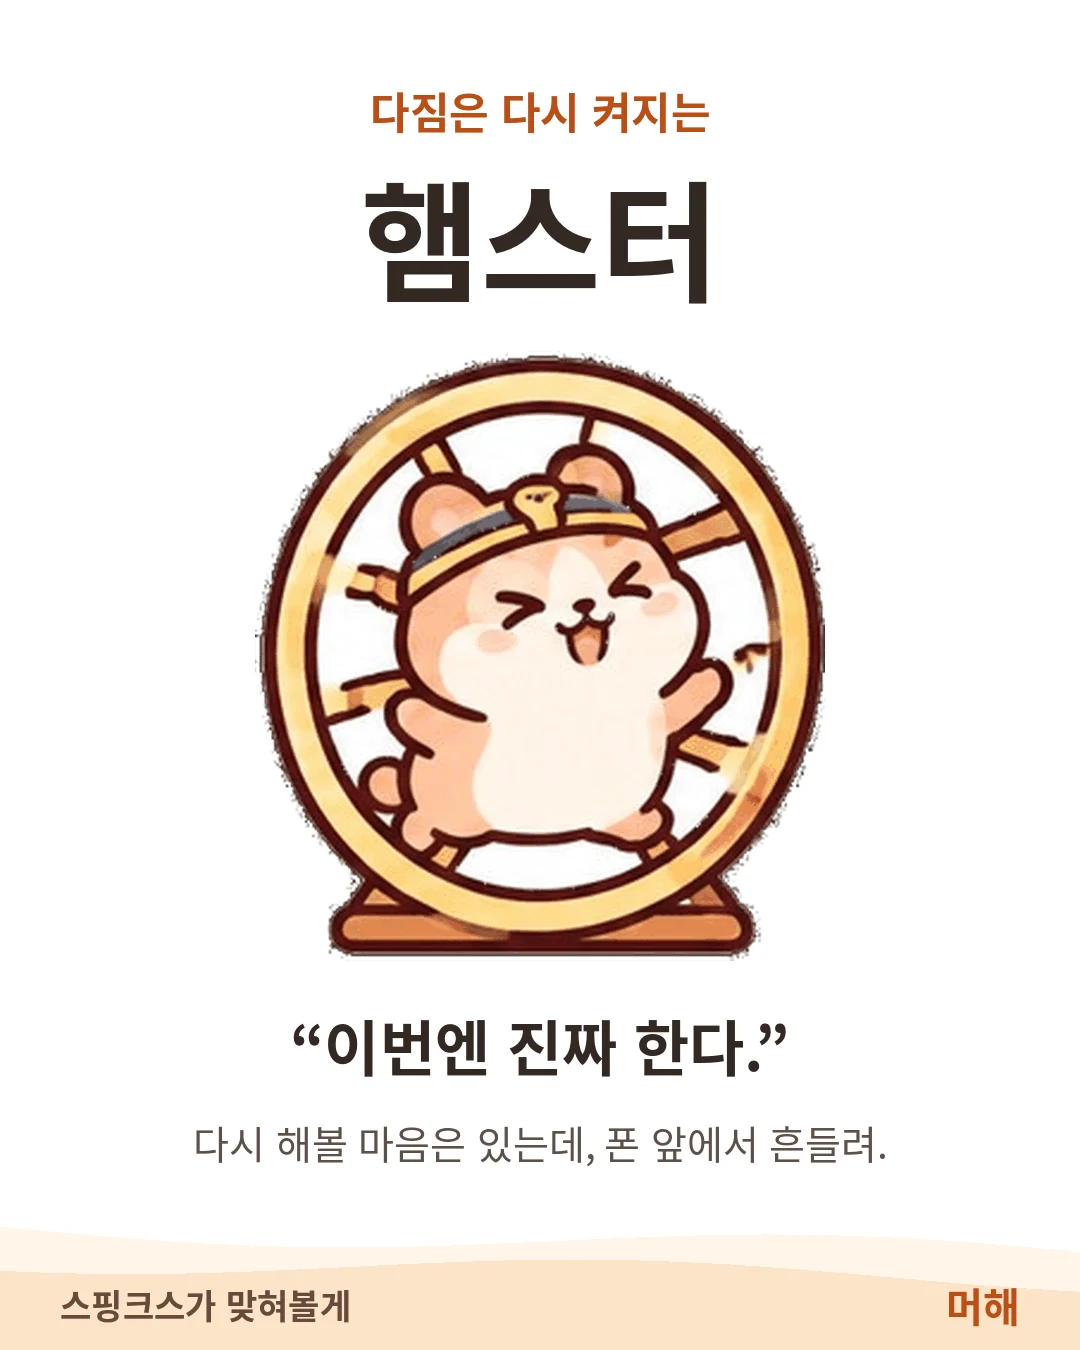
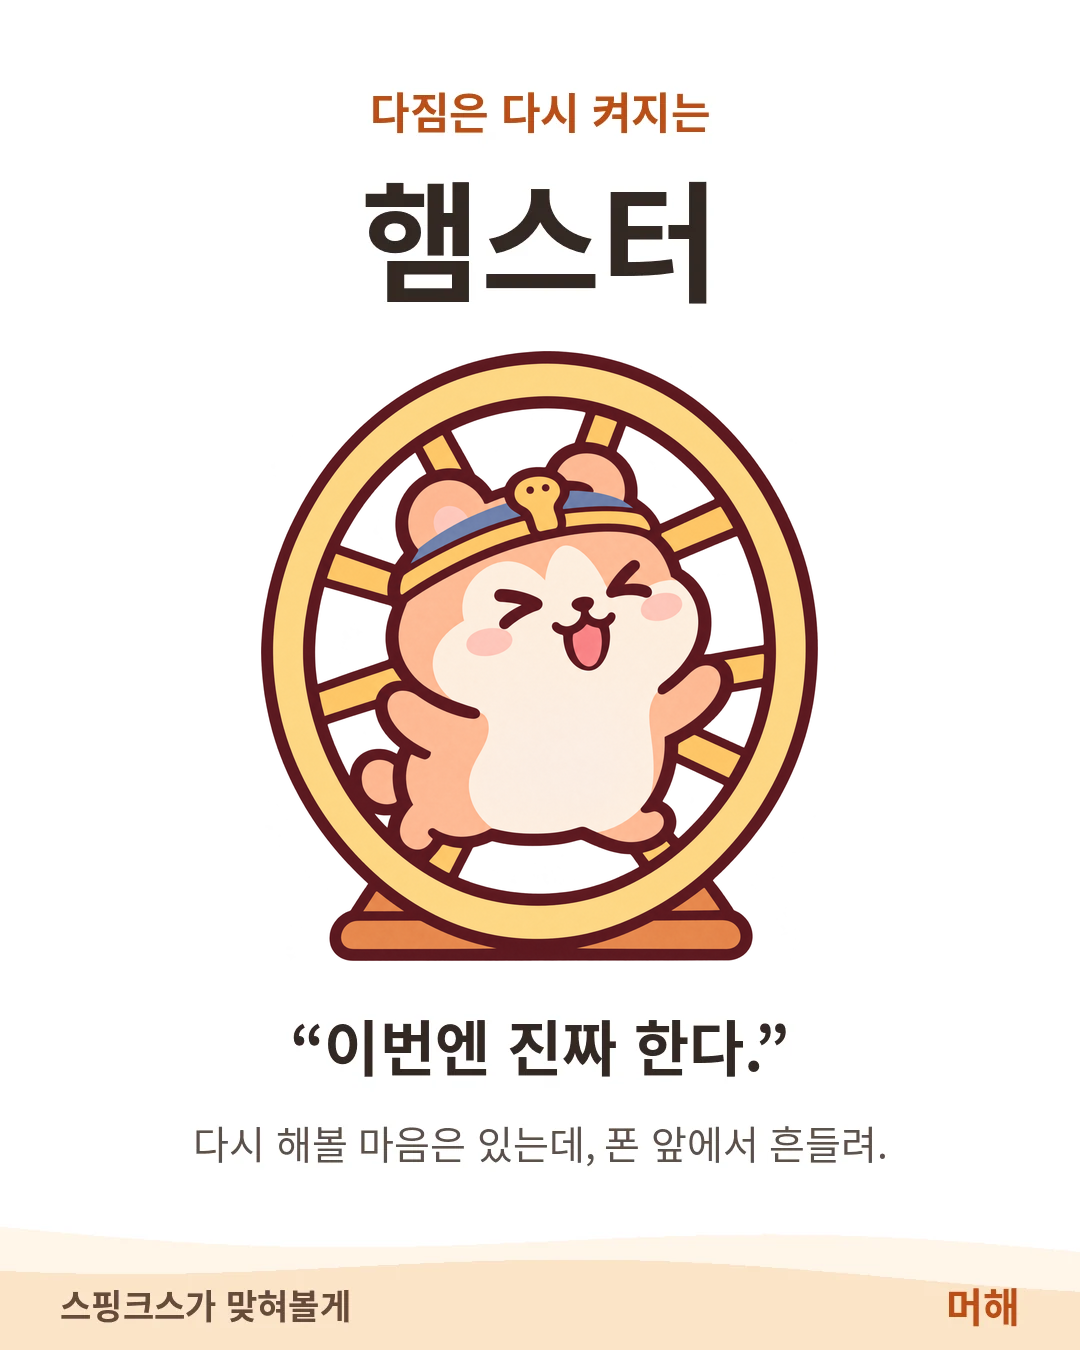
Sphinx test: start screen fits one phone screen, transition into the intro, sharp animals on cards
- Start screen sizes follow viewport height so nothing needs scrolling
- After the last answer the Sphinx pauses, the screen brightens, and the MEOHAE intro rises in
- Result cards rebuilt with the original sharp animal art in the same position (text unchanged)

Claude-Session: https://claude.ai/code/session_01AmGVMRGbXrM8NVEtRhVHKg

Changed region(s): [[0.2139, 0.2489, 0.7639, 0.7156]]

diff --git a/sphinx/index.html b/sphinx/index.html
@@ -183,6 +183,34 @@ h1 .spark.r{right:-38px;top:50%;margin-top:-13px;transform:scaleX(-1)}
 .rend{margin-top:30px;text-align:center}
 .rend .inote{margin:0 0 8px}
 
+/* 시작 화면은 스크롤 없이 한 화면에: 화면 높이에 맞춰 줄어든다 */
+.wrap.start{padding-top:clamp(10px,2vh,18px);padding-bottom:calc(min(100vw,430px)*.19)}
+#s-start .pill{margin-top:clamp(6px,1.8vh,22px)}
+#s-start h1{font-size:clamp(31px,5.4vh,44px);margin-top:clamp(3px,1vh,10px)}
+#s-start .heroS{width:min(62%,23vh);margin-top:clamp(5px,1.6vh,16px)}
+#s-start .lead{margin-top:clamp(5px,1.2vh,12px);font-size:clamp(14.5px,2vh,16px)}
+#s-start .shelf{margin-top:clamp(7px,1.8vh,20px)}
+#s-start .shelf img{width:clamp(36px,6vh,50px)}
+#s-start .stack{margin-top:clamp(9px,2vh,24px)}
+#s-start .stack .btn{min-height:clamp(50px,7vh,58px)}
+#s-start .stack .tiny{margin-top:clamp(6px,1.2vh,12px)!important}
+@supports (height:1svh){
+ .wrap.start{padding-top:clamp(10px,2svh,18px)}
+ #s-start .pill{margin-top:clamp(6px,1.8svh,22px)}
+ #s-start h1{font-size:clamp(31px,5.4svh,44px);margin-top:clamp(3px,1svh,10px)}
+ #s-start .heroS{width:min(62%,23svh);margin-top:clamp(5px,1.6svh,16px)}
+ #s-start .lead{margin-top:clamp(5px,1.2svh,12px);font-size:clamp(14.5px,2svh,16px)}
+ #s-start .shelf{margin-top:clamp(7px,1.8svh,20px)}
+ #s-start .shelf img{width:clamp(36px,6svh,50px)}
+ #s-start .stack{margin-top:clamp(9px,2svh,24px)}
+ #s-start .stack .btn{min-height:clamp(50px,7svh,58px)}
+}
+/* 머해 소개로 넘어갈 때: 아래에서 떠오르며 나타난다 */
+@keyframes introIn{from{opacity:0;transform:translateY(28px)}to{opacity:1;transform:none}}
+#s-intro.on.enter{animation:introIn .5s cubic-bezier(.2,.8,.2,1) both}
+#s-intro.on.enter .intro h3{animation:introIn .5s .12s cubic-bezier(.2,.8,.2,1) both}
+#s-intro.on.enter .ex{animation:introIn .55s .24s cubic-bezier(.2,.8,.2,1) both}
+
 .foot{margin-top:28px;font-size:12.5px;color:var(--sub);text-align:center}
 .foot button{background:none;border:0;text-decoration:underline;text-underline-offset:3px;font-size:13.5px;color:var(--sub);margin-bottom:12px}
 .flash{position:fixed;inset:0;background:#fff;opacity:0;pointer-events:none;z-index:9;transition:opacity .3s}
@@ -203,7 +231,7 @@ h1 .spark.r{right:-38px;top:50%;margin-top:-13px;transform:scaleX(-1)}
 </style>
 </head>
 <body>
-<div class="wrap" id="wrap">
+<div class="wrap start" id="wrap">
   <img class="head" src="img/icons.webp" alt="">
 
   <section class="scr on" id="s-start">
@@ -323,18 +351,18 @@ function decideMid(a){const r2=P2(a,'q1')+P2(a,'q2')+P2(a,'q3')+P2(a,'q4')+P2(a,
 /* 줄 순서: 거북이 → 다람쥐 → 강아지 → 햄스터 → 고양이 */
 const ORDER=['T','S','D','H','C'];
 const R={
- T:{"name": "거북이", "img": "turtle", "card": "img/cards/turtle.png", "nickname": "자기 페이스 지키는", "quote": "“하던 거 마저 하고 볼게.”", "headline": "", "cardLine": "잠깐 흔들려도, 금방 하던 공부로 돌아와.", "summaries": [{"title": "잠깐 흔들려도, 다시 공부로.", "lines": ["재밌는 게 보이면 너도 눈길이 가.", "그래도 대체로 하던 공부로 금방 돌아와."]}, {"title": "“이따 볼게”를 진짜로 해.", "lines": ["조금 아쉬워도 폰을 내려놓는 편이야.", "해야 할 일을 먼저 챙길 줄 알지."]}], "traits": [["내 흐름을 다시 찾는 편", "잠깐 시선이 새도 하던 일을 이어갈 여지가 있어."], ["멈출 때를 비교적 잘 알아", "재미가 남아 있어도 지금 할 일을 챙기는 쪽이야."], ["네 페이스로 꾸준히", "크게 다짐하기보다 다시 앉는 행동이 익숙한 편이야."]]},
- S:{"name": "다람쥐", "img": "squirrel", "card": "img/cards/squirrel.png", "nickname": "돌아올 길은 아는", "quote": "“잠깐만… 아, 하던 거 해야지.”", "headline": "혼자 돌아오는 너에게,\n조금 더 일찍 생각날 계기.", "cardLine": "딴길에 들러도 스스로 돌아올 줄 알아.", "summaries": [{"title": "딴길로 새도, 돌아올 줄 알아.", "lines": ["궁금한 게 생기면 잠깐 들르기도 해.", "그러다 스스로 “공부해야지” 하고 돌아와."]}, {"title": "돌아오는 데 걸리는 시간은 달라.", "lines": ["금방 끌 때도, 조금 더 머물 때도 있어.", "구경거리가 많으면 길어지기도 하지."]}], "traits": [["구경은 해도 돌아올 길은 알아", "호기심이 생겨도 하던 일을 다시 이어가는 편이야."], ["스스로 다시 시작할 힘", "누가 옆에 없어도 돌아오려는 행동이 나오는 쪽이야."], ["왕복 시간은 그때그때", "돌아오는 건 익숙해도, 딴길에 머무는 길이는 달라질 수 있어."]]},
- D:{"name": "강아지", "img": "dog", "card": "img/cards/dog.png", "nickname": "딴길 산책 중인", "quote": "“아 맞아… 나 해야 해…”", "headline": "그 ‘아 맞다’를,\n한 번 더.", "cardLine": "공부가 떠올라도 ‘이것까지만’ 보고 싶어.", "summaries": [{"title": "“아 맞다”는 떠오르는데.", "lines": ["해야 할 공부가 문득 떠올라.", "그래도 보던 걸 바로 끄기는 아쉬워."]}, {"title": "“이것까지만”에 자꾸 붙잡혀.", "lines": ["돌아갈까 하다가 조금만 더 보게 돼.", "그 사이 공부로 돌아갈 순간이 늦어지지."]}], "traits": [["알아차려도, 이것까지만", "시간이 지난 걸 알아도 당장 끄기는 아쉬워."], ["생각과 행동 사이에 틈이 있어", "“해야지”가 바로 “폰 내려놓기”로 이어지지는 않아."], ["복귀 타이밍을 놓치기도", "눈앞의 재미가 남아 있으면 돌아갈 순간이 뒤로 밀려."]]},
- H:{"name": "햄스터", "img": "hamster", "card": "img/cards/hamster.png", "nickname": "다짐은 다시 켜지는", "quote": "“이번엔 진짜 한다.”", "headline": "이번엔 진짜 한다는 마음,\n폰을 켠 순간에도.", "cardLine": "다시 해볼 마음은 있는데, 폰 앞에서 흔들려.", "summaries": [{"title": "다시 해보려는 마음은 있어.", "lines": ["“이번엔 진짜 한다”는 마음이 들어.", "마음속에선 벌써 새 출발이야."]}, {"title": "막상 폰을 켜면 또 흔들려.", "lines": ["눈앞의 재미를 지나치기는 어려워.", "다시 하려던 마음이 잠깐 뒤로 밀려나."]}], "traits": [["다시 해보려는 마음은 있어", "흐름이 끊겨도 이번에는 해보고 싶은 마음이 남아 있어."], ["눈앞의 재미에 쉽게 흔들려", "계획할 때의 마음이 폰 앞에서는 잠깐 작아지기도 해."], ["실행은 그 순간이 어려워", "다짐을 떠올리는 일과 바로 행동하는 일 사이가 멀게 느껴질 수 있어."]]},
- C:{"name": "고양이", "img": "cat", "card": "img/cards/cat.png", "nickname": "지금은 내 마음이 먼저인", "quote": "“됐어, 재밌었잖아.”", "headline": "네가 고른 이미지와 한마디로,\n가볍게 응원받아봐.", "cardLine": "요즘은 공부보다 당장 끌리는 게 먼저야.", "summaries": [{"title": "지금은 공부보다 재밌는 게 먼저야.", "lines": ["당장 끌리는 일에 시간을 쓰고 싶어.", "누가 재촉해도 공부할 마음이 생기진 않지."]}, {"title": "이건 ‘요즘의 너’를 말하는 거야.", "lines": ["항상 의욕이 없다는 뜻은 아니야.", "다시 해보고 싶어지면, 시작도 네 방식대로."]}], "traits": [["지금 끌리는 쪽이 먼저", "해야 한다는 이유만으로 바로 움직이지는 않는 편이야."], ["내 타이밍을 중요하게", "쉬고 싶은 지금의 마음도 네 상태의 일부야."], ["선택은 내가 할래", "다시 시작할 때도 네가 고른 방식이 편할 수 있어."]]}
+ T:{"name": "거북이", "img": "turtle", "card": "img/cards/turtle.png?v=2", "nickname": "자기 페이스 지키는", "quote": "“하던 거 마저 하고 볼게.”", "headline": "", "cardLine": "잠깐 흔들려도, 금방 하던 공부로 돌아와.", "summaries": [{"title": "잠깐 흔들려도, 다시 공부로.", "lines": ["재밌는 게 보이면 너도 눈길이 가.", "그래도 대체로 하던 공부로 금방 돌아와."]}, {"title": "“이따 볼게”를 진짜로 해.", "lines": ["조금 아쉬워도 폰을 내려놓는 편이야.", "해야 할 일을 먼저 챙길 줄 알지."]}], "traits": [["내 흐름을 다시 찾는 편", "잠깐 시선이 새도 하던 일을 이어갈 여지가 있어."], ["멈출 때를 비교적 잘 알아", "재미가 남아 있어도 지금 할 일을 챙기는 쪽이야."], ["네 페이스로 꾸준히", "크게 다짐하기보다 다시 앉는 행동이 익숙한 편이야."]]},
+ S:{"name": "다람쥐", "img": "squirrel", "card": "img/cards/squirrel.png?v=2", "nickname": "돌아올 길은 아는", "quote": "“잠깐만… 아, 하던 거 해야지.”", "headline": "혼자 돌아오는 너에게,\n조금 더 일찍 생각날 계기.", "cardLine": "딴길에 들러도 스스로 돌아올 줄 알아.", "summaries": [{"title": "딴길로 새도, 돌아올 줄 알아.", "lines": ["궁금한 게 생기면 잠깐 들르기도 해.", "그러다 스스로 “공부해야지” 하고 돌아와."]}, {"title": "돌아오는 데 걸리는 시간은 달라.", "lines": ["금방 끌 때도, 조금 더 머물 때도 있어.", "구경거리가 많으면 길어지기도 하지."]}], "traits": [["구경은 해도 돌아올 길은 알아", "호기심이 생겨도 하던 일을 다시 이어가는 편이야."], ["스스로 다시 시작할 힘", "누가 옆에 없어도 돌아오려는 행동이 나오는 쪽이야."], ["왕복 시간은 그때그때", "돌아오는 건 익숙해도, 딴길에 머무는 길이는 달라질 수 있어."]]},
+ D:{"name": "강아지", "img": "dog", "card": "img/cards/dog.png?v=2", "nickname": "딴길 산책 중인", "quote": "“아 맞아… 나 해야 해…”", "headline": "그 ‘아 맞다’를,\n한 번 더.", "cardLine": "공부가 떠올라도 ‘이것까지만’ 보고 싶어.", "summaries": [{"title": "“아 맞다”는 떠오르는데.", "lines": ["해야 할 공부가 문득 떠올라.", "그래도 보던 걸 바로 끄기는 아쉬워."]}, {"title": "“이것까지만”에 자꾸 붙잡혀.", "lines": ["돌아갈까 하다가 조금만 더 보게 돼.", "그 사이 공부로 돌아갈 순간이 늦어지지."]}], "traits": [["알아차려도, 이것까지만", "시간이 지난 걸 알아도 당장 끄기는 아쉬워."], ["생각과 행동 사이에 틈이 있어", "“해야지”가 바로 “폰 내려놓기”로 이어지지는 않아."], ["복귀 타이밍을 놓치기도", "눈앞의 재미가 남아 있으면 돌아갈 순간이 뒤로 밀려."]]},
+ H:{"name": "햄스터", "img": "hamster", "card": "img/cards/hamster.png?v=2", "nickname": "다짐은 다시 켜지는", "quote": "“이번엔 진짜 한다.”", "headline": "이번엔 진짜 한다는 마음,\n폰을 켠 순간에도.", "cardLine": "다시 해볼 마음은 있는데, 폰 앞에서 흔들려.", "summaries": [{"title": "다시 해보려는 마음은 있어.", "lines": ["“이번엔 진짜 한다”는 마음이 들어.", "마음속에선 벌써 새 출발이야."]}, {"title": "막상 폰을 켜면 또 흔들려.", "lines": ["눈앞의 재미를 지나치기는 어려워.", "다시 하려던 마음이 잠깐 뒤로 밀려나."]}], "traits": [["다시 해보려는 마음은 있어", "흐름이 끊겨도 이번에는 해보고 싶은 마음이 남아 있어."], ["눈앞의 재미에 쉽게 흔들려", "계획할 때의 마음이 폰 앞에서는 잠깐 작아지기도 해."], ["실행은 그 순간이 어려워", "다짐을 떠올리는 일과 바로 행동하는 일 사이가 멀게 느껴질 수 있어."]]},
+ C:{"name": "고양이", "img": "cat", "card": "img/cards/cat.png?v=2", "nickname": "지금은 내 마음이 먼저인", "quote": "“됐어, 재밌었잖아.”", "headline": "네가 고른 이미지와 한마디로,\n가볍게 응원받아봐.", "cardLine": "요즘은 공부보다 당장 끌리는 게 먼저야.", "summaries": [{"title": "지금은 공부보다 재밌는 게 먼저야.", "lines": ["당장 끌리는 일에 시간을 쓰고 싶어.", "누가 재촉해도 공부할 마음이 생기진 않지."]}, {"title": "이건 ‘요즘의 너’를 말하는 거야.", "lines": ["항상 의욕이 없다는 뜻은 아니야.", "다시 해보고 싶어지면, 시작도 네 방식대로."]}], "traits": [["지금 끌리는 쪽이 먼저", "해야 한다는 이유만으로 바로 움직이지는 않는 편이야."], ["내 타이밍을 중요하게", "쉬고 싶은 지금의 마음도 네 상태의 일부야."], ["선택은 내가 할래", "다시 시작할 때도 네가 고른 방식이 편할 수 있어."]]}
 };
 const FORM="https://forms.gle/kUWucQ8Qv56563cZ8", INSTALL="../install.html?src=sphinx", INSTA="https://instagram.com/meohae.project";
 const IOS=/iPhone|iPad|iPod/.test(navigator.userAgent);
 
 /* ===== 화면 ===== */
 const $=s=>document.querySelector(s);
-function show(id){document.querySelectorAll('.scr').forEach(e=>e.classList.toggle('on','#'+e.id===id));const pl=id==='#s-result'||id==='#s-intro';$('#wrap').classList.toggle('res',pl);$('#wrap').classList.toggle('plain',pl);window.scrollTo(0,0);}
+function show(id){document.querySelectorAll('.scr').forEach(e=>e.classList.toggle('on','#'+e.id===id));const pl=id==='#s-result'||id==='#s-intro';$('#wrap').classList.toggle('start',id==='#s-start');$('#wrap').classList.toggle('res',pl);$('#wrap').classList.toggle('plain',pl);window.scrollTo(0,0);}
 const sleep=ms=>new Promise(r=>setTimeout(r,ms));
 function toast(t){const e=$('#toast');e.textContent=t;e.classList.add('on');setTimeout(()=>e.classList.remove('on'),1600);}
 function shuffle(a){a=a.slice();for(let i=a.length-1;i>0;i--){const j=Math.floor(Math.random()*(i+1));[a[i],a[j]]=[a[j],a[i]];}return a;}
@@ -409,11 +437,14 @@ function clearState(){try{localStorage.removeItem(AKEY);}catch(e){}}
 function loadState(){try{const o=JSON.parse(localStorage.getItem(AKEY)||'null');return o&&o.v===1&&o.type&&Date.now()-o.t<6*3600*1000?o:null;}catch(e){return null;}}
 
 /* 마지막 답을 고른 뒤: 거북이는 바로 석관, 나머지는 머해 소개를 한 번 거친다 */
-function finish(){
+async function finish(){
   ST={introSeen:false,resultLogged:false,stage:'done'};
   log('done',{type,how:type==='T'?'skip':'intro',answers:ansStr()});
   saveState();
-  if(type==='T')reveal();else showIntro();
+  if(type==='T'){reveal();return;}
+  await say('알아냈어!\n결과를 준비할게.','aha',1300);      /* 한 박자 쉬고 */
+  const f=$('#flash');f.classList.add('on');await sleep(260);   /* 화면이 밝아졌다가 */
+  showIntro(true);f.classList.remove('on');                     /* 소개가 떠오른다 */
 }
 
 /* ===== 결과 전 머해 소개 ===== */
@@ -473,7 +504,8 @@ if('IntersectionObserver' in window)new IntersectionObserver(es=>es.forEach(e=>{
 else demo.vis=true;
 document.addEventListener('visibilitychange',()=>{document.hidden?demoPause():demoRun();});
 
-function showIntro(){
+function showIntro(animate){
+  $('#s-intro').classList.toggle('enter',!!animate);
   $('#inHead').textContent=R[type].headline;$('#inMine').textContent=introLine();
   tryLink($('#inTry'),'intro');
   $('#inNote').textContent=IOS?'지금은 Android만 테스트 중이야':'Android 비공개 테스트로 먼저 써볼 수 있어';
